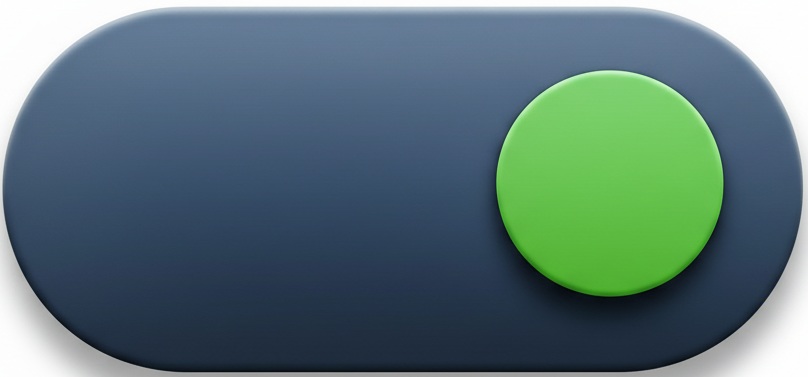
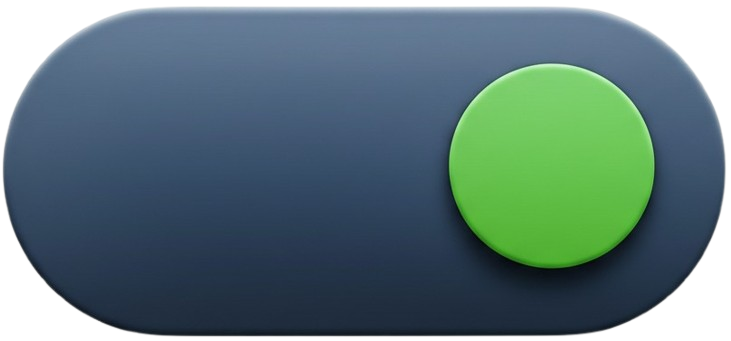
consertando as imagens

diff --git a/FE1/tela_List_Saved.html b/FE1/tela_List_Saved.html
@@ -38,7 +38,7 @@
 
             <ul>
                 <li>
-                    <img src="img/whatsapp.jpeg" alt="WhatsApp">
+                    <img src="img/whatsapp.png" alt="WhatsApp">
                     <p class = 'bebas-neue-regular'> WhatsApp </p>
                 </li>
 
@@ -48,15 +48,10 @@
                 </li>
 
                 <li>
-                    <img src="img/Instagram.jpeg" alt="Instagram">
+                    <img src="img/instagram.png" alt="Instagram">
                     <p class = 'bebas-neue-regular'> Instagram </p>
                 </li>
 
-                <li>
-                    <img src="img/SMS.png" alt="SMS">
-                    <p class = 'bebas-neue-regular'> SMS </p>
-                </li>
-        
             </ul>
 
         </main>

diff --git a/FE1/tela_list_viagem_no_tempo.html b/FE1/tela_list_viagem_no_tempo.html
@@ -27,11 +27,14 @@
             Viagem no tempo
         </h1>
         <a href="tela_perfil.html">
-            <img src="img/imagem_perfil.png" alt="Perfil">
+            <img src="img/imagem_perfil.png" alt="Perfil" class = 'perfil'>
         </a>
     </header>
         <main>
             <ul class = 'vertical' id = 'lista_usuario'>
+                <li> <img src="img/Back_to_the_Future.jpg" alt="Back to the Future"> </li>
+                <li> <img src="img/Terminator_poster.jpeg" alt="Terminator"> </li>
+                <li> <img src="img/Looper_poster.jpeg" alt="Looper"> </li>
             </ul>    
         </main>
     <footer>

diff --git a/FE1/tela_My_Movies.html b/FE1/tela_My_Movies.html
@@ -25,7 +25,7 @@
                 My Movies
             </h1>
             <a href="tela_perfil.html" class="perfil">
-            <img src="img/imagem_perfil.png" alt="Imagem de perfil">
+            <img src="img/imagem_perfil.png" alt="Imagem de perfil" class = 'perfil'>
             </a>
         </header>
        

diff --git a/FE1/tela_My_lists.html b/FE1/tela_My_lists.html
@@ -31,7 +31,7 @@
             </h1>
            
             <a href="tela_perfil.html" class="perfil">
-            <img src="img/imagem_perfil.png" alt="Imagem de perfil">
+            <img src="img/imagem_perfil.png" alt="Imagem de perfil" class = 'perfil'>
             </a>
         </header>
        

diff --git a/FE1/tela_New_Category.html b/FE1/tela_New_Category.html
@@ -32,7 +32,7 @@
             </h1>
 
             <a href="tela_perfil.html" class="perfil">
-                <img src="img/imagem_perfil.png" alt="Imagem de perfil">
+                <img src="img/imagem_perfil.png" alt="Imagem de perfil" class = 'perfil'>
             </a>
         </header>
        

diff --git a/FE1/tela_New_Movie.html b/FE1/tela_New_Movie.html
@@ -32,7 +32,7 @@
             </h1>
 
             <a href="tela_perfil.html" class="perfil">
-            <img src="img/imagem_perfil.png" alt="Imagem de perfil">
+            <img src="img/imagem_perfil.png" alt="Imagem de perfil" class = 'perfil'>
             </a>
         </header>
        

diff --git a/FE1/jogox.html b/FE1/jogox.html
@@ -26,7 +26,7 @@
             Mario Kart
         </h1>
         <a href="tela_perfil.html">
-            <img src="img/imagem_perfil.png" alt="Perfil">
+            <img src="img/imagem_perfil.png" alt="Perfil" class = 'perfil' >
         </a>
     </header>
         <main>

diff --git a/FE1/mygames.html b/FE1/mygames.html
@@ -25,7 +25,7 @@
             My Games
         </h1>
         <a href="tela_perfil.html">
-            <img src="img/imagem_perfil.png" alt="Perfil">
+            <img src="img/imagem_perfil.png" alt="Perfil" class = 'perfil'>
         </a>
     </header>
         <main>

diff --git a/FE1/selecionarlista.html b/FE1/selecionarlista.html
@@ -25,7 +25,7 @@
             Jogo X
         </h1>
         <a href="tela_perfil.html">
-            <img src="img/imagem_perfil.png" alt="Perfil">
+            <img src="img/imagem_perfil.png" alt="Perfil" class = 'perfil'>
         </a>
     </header>
         <main>

diff --git a/FE1/tela_sharegendergraphic.html b/FE1/tela_sharegendergraphic.html
@@ -23,7 +23,6 @@
               <img src="img/return.png" alt="Return">
             </a>
       
-            <!-- título como na imagem -->
             <h1>GRÁFICO DE GÊNEROS</h1>
       
             <a href="index.html" class="home">

diff --git a/FE1/tela_pesquisa_do_usuario.html b/FE1/tela_pesquisa_do_usuario.html
@@ -20,7 +20,7 @@
     </a>
     <h1>Mario Kart</h1>
     <a href="tela_perfil.html">
-        <img src="img/imagem_perfil.png" alt="Perfil">
+        <img src="img/imagem_perfil.png" alt="Perfil" class = 'perfil'>
     </a>
 </header>
 

diff --git a/FE1/tela_pesquisa.html b/FE1/tela_pesquisa.html
@@ -20,7 +20,7 @@
     </a>
     <h1>Pesquisa</h1>
     <a href="tela_perfil.html">
-        <img src="img/imagem_perfil.png" alt="Perfil">
+        <img src="img/imagem_perfil.png" alt="Perfil" class = 'perfil'>
     </a>
 </header>
 
